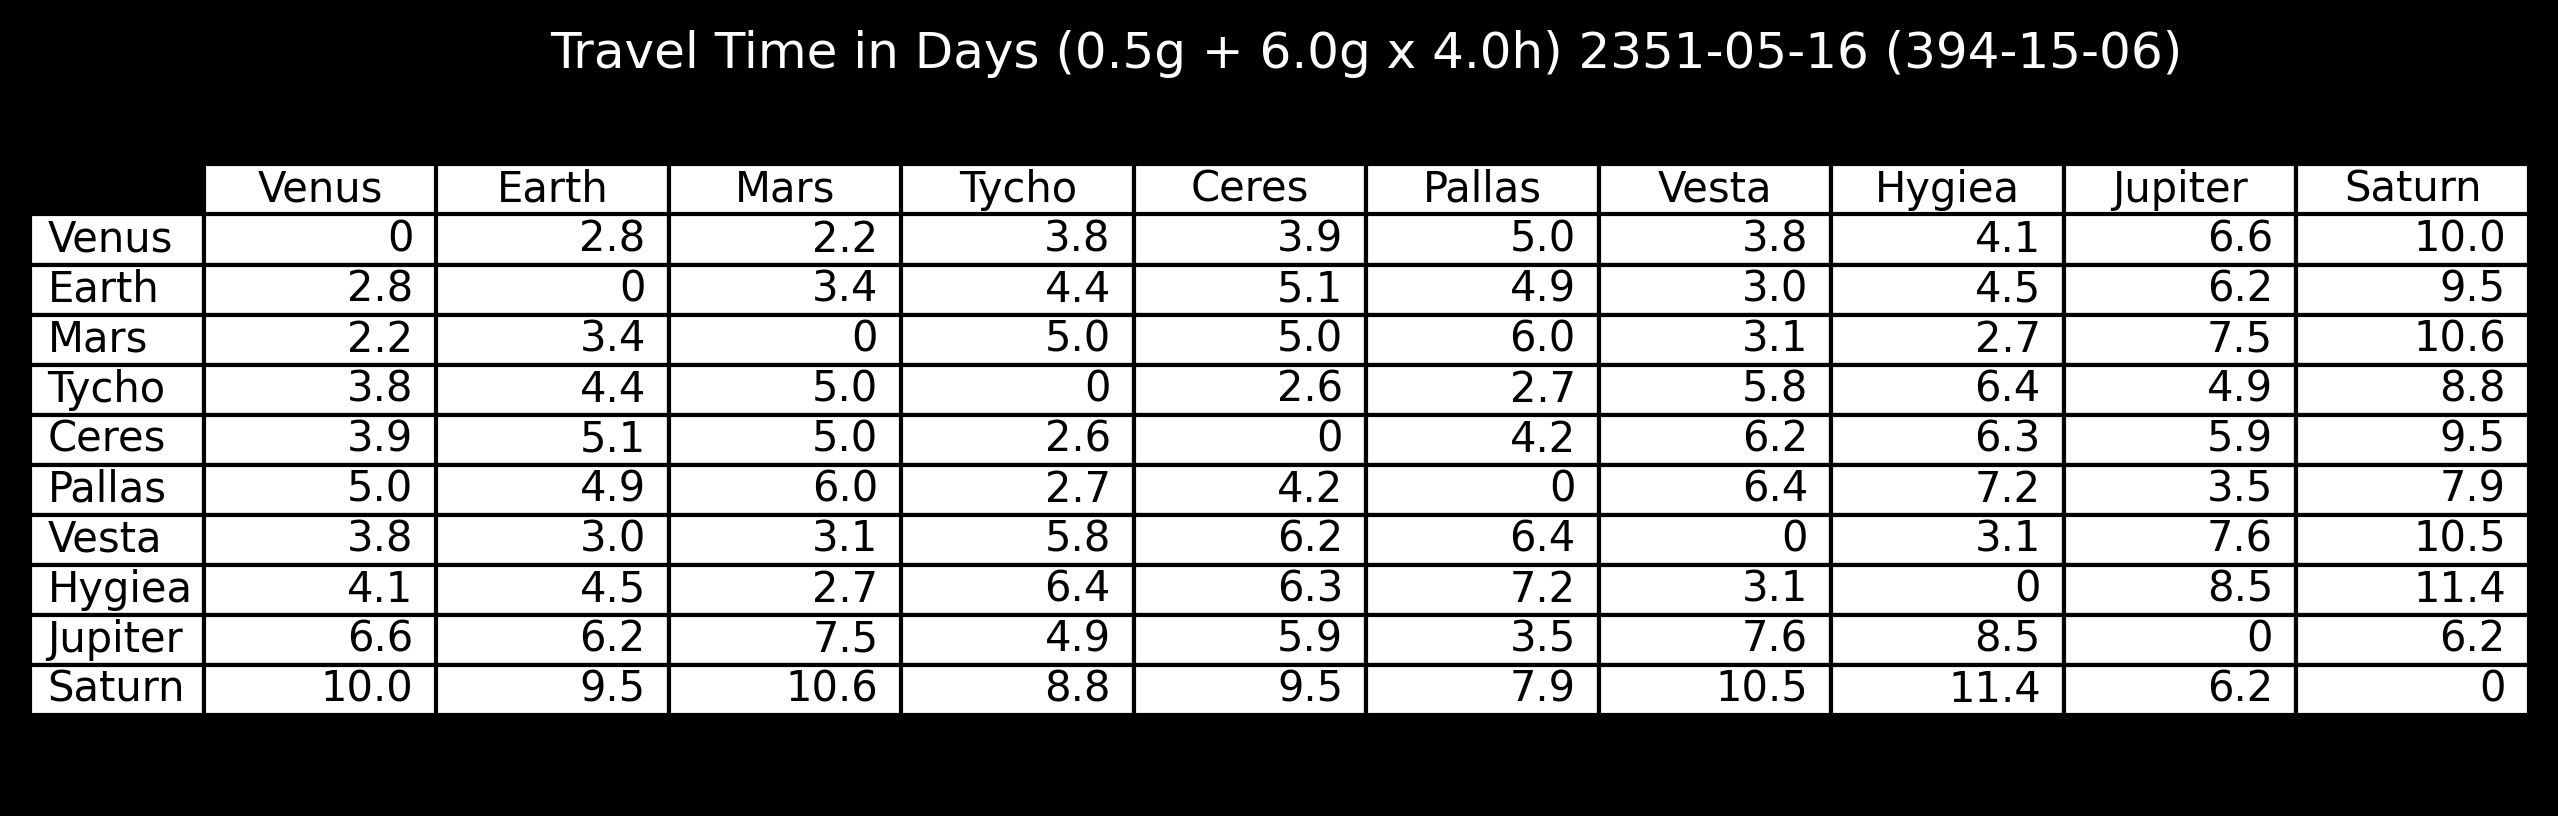
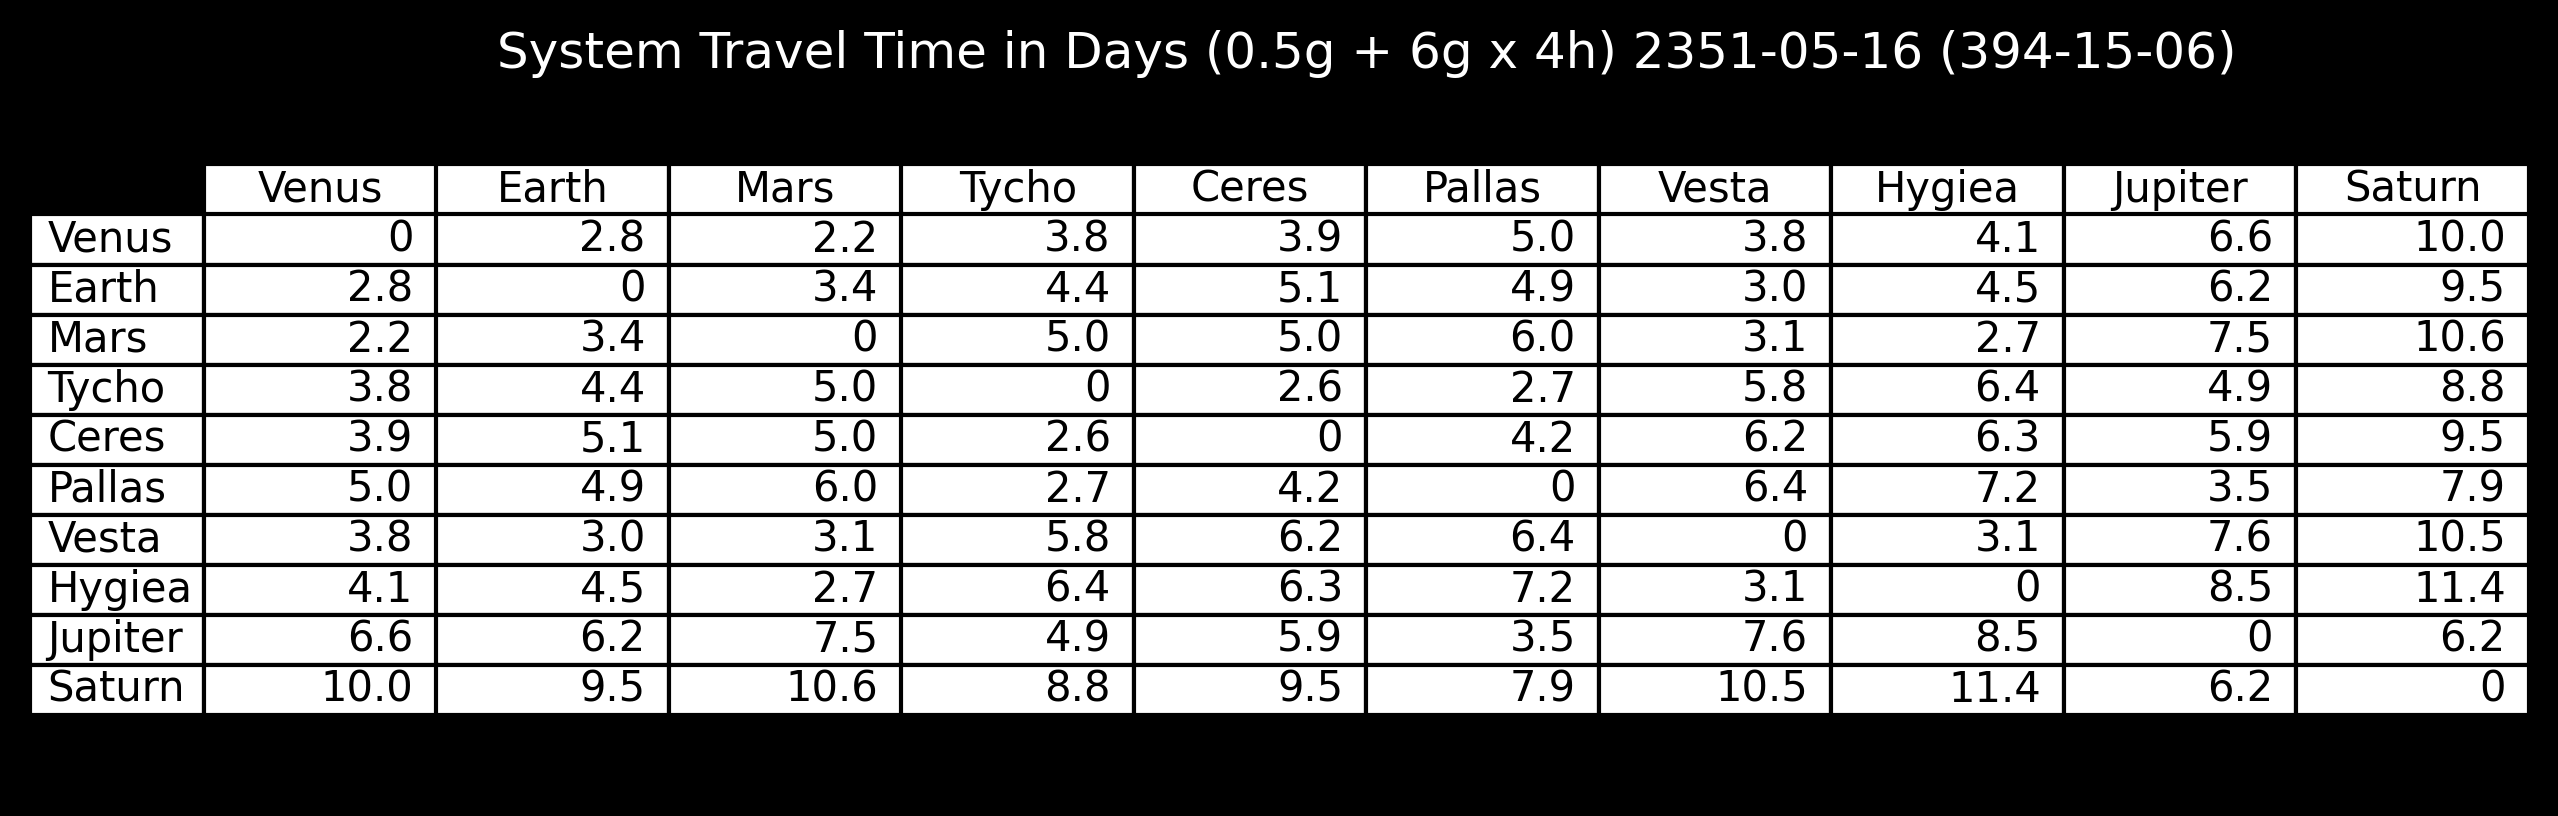
Improved travel time and communication delay tables.

Changed region(s): [[0.1853, 0.0306, 0.8647, 0.0919]]

diff --git a/kuxaku.py b/kuxaku.py
@@ -614,7 +614,7 @@ calculatedistances(cronianplaces, cronianpositions, croniandistances)
 #
 #	communication delay
 #
-def commdelay(name, places, distances, unit):
+def commdelay(name, places, distances, unit, system):
 	print('Writing:', outputdir + name + '.png')
 
 	plot.figure(0)
@@ -636,20 +636,20 @@ def commdelay(name, places, distances, unit):
 	axis.axis('off')
 	axis.axis('tight')
 	axis.table(cellText = celltext, rowLabels = places, colLabels = places, loc = 'center')
-	axis.set_title('Communication Delay in ' + unit + ' ' + titledate(), color = foreground)
+	axis.set_title(system + ' Communication Delay in ' + unit + ' ' + titledate(), color = foreground)
 	#axis.patch.set_facecolor(background)
 
 	plot.savefig(outputdir + name + '.png', dpi = 300, facecolor = background, bbox_inches = 'tight')
 
-commdelay('systemdelay', systemplaces, systemdistances, 'Minutes')
-commdelay('joviandelay', jovianplaces, joviandistances, 'Seconds')
-#commdelay('croniandelay', cronianplaces, croniandistances, 'Seconds')
+commdelay('systemdelay', systemplaces, systemdistances, 'Minutes', 'System')
+commdelay('joviandelay', jovianplaces, joviandistances, 'Seconds', 'Jovian')
+#commdelay('croniandelay', cronianplaces, croniandistances, 'Seconds', 'Cronian')
 
 #
 #	travel time
 #
-def traveltime(name, places, distances, unit, cruiseg, juiceg = 0, juicet = 0):
-	title = 'Travel Time in ' + unit + ' (' + str(cruiseg) + 'g'
+def traveltime(name, places, distances, unit, system, cruiseg, juiceg = 0, juicet = 0):
+	title = system + ' Travel Time in ' + unit + ' (' + str(cruiseg) + 'g'
 	filename = outputdir + name + '{:02.0f}'.format(cruiseg * 10)
 	if juiceg and juicet:
 		title += ' + ' + str(juiceg) + 'g x ' + str(juicet) + 'h'
@@ -677,6 +677,8 @@ def traveltime(name, places, distances, unit, cruiseg, juiceg = 0, juicet = 0):
 					value = 2 * math.sqrt((distances[row][col]) * acc / juiceg) / 3600
 				if unit == 'Days':
 					cellrow.append('{0:.1f}'.format(value / 24))
+				elif unit == 'Hours.':
+					cellrow.append('{0:.1f}'.format(value))
 				else:
 					cellrow.append('{0:.0f}'.format(value))
 			elif col == row:	# diagonal
@@ -692,17 +694,17 @@ def traveltime(name, places, distances, unit, cruiseg, juiceg = 0, juicet = 0):
 	axis.set_title(title, color = foreground)
 	plot.savefig(filename, dpi = 300, facecolor = background, bbox_inches = 'tight')
 
-traveltime('systemtravel', systemplaces, systemdistances, 'Days', 0.3)
-traveltime('systemtravel', systemplaces, systemdistances, 'Days', 0.5)
-traveltime('systemtravel', systemplaces, systemdistances, 'Days', 1.0)
-traveltime('systemtravel', systemplaces, systemdistances, 'Days', 0.5, 6, 4)
+traveltime('systemtravel', systemplaces, systemdistances, 'Days', 'System', 0.3)
+traveltime('systemtravel', systemplaces, systemdistances, 'Days', 'System', 0.5)
+traveltime('systemtravel', systemplaces, systemdistances, 'Days', 'System', 1.0)
+traveltime('systemtravel', systemplaces, systemdistances, 'Days', 'System', 0.5, 6, 4)
 if arguments.juiceg and arguments.juicet:
-	traveltime('systemtravel', systemplaces, systemdistances, 'Days', 0.5, arguments.juiceg, arguments.juicet)
+	traveltime('systemtravel', systemplaces, systemdistances, 'Days', 'System', 0.5, arguments.juiceg, arguments.juicet)
 
-traveltime('joviantravel', jovianplaces, joviandistances, 'Hours', 0.3)
-traveltime('joviantravel', jovianplaces, joviandistances, 'Hours', 0.5)
-traveltime('joviantravel', jovianplaces, joviandistances, 'Hours', 1.0)
+traveltime('joviantravel', jovianplaces, joviandistances, 'Hours', 'Jovian', 0.3)
+traveltime('joviantravel', jovianplaces, joviandistances, 'Hours', 'Jovian', 0.5)
+traveltime('joviantravel', jovianplaces, joviandistances, 'Hours', 'Jovian', 1.0)
 
-traveltime('croniantravel', cronianplaces, croniandistances, 'Hours', 0.3)
-traveltime('croniantravel', cronianplaces, croniandistances, 'Hours', 0.5)
-#traveltime('croniantravel', cronianplaces, croniandistances, 'Hours', 1.0)
+traveltime('croniantravel', cronianplaces, croniandistances, 'Hours.', 'Cronian', 0.3)
+traveltime('croniantravel', cronianplaces, croniandistances, 'Hours.', 'Cronian', 0.5)
+#traveltime('croniantravel', cronianplaces, croniandistances, 'Hours.', 'Cronian', 1.0)

diff --git a/CHANGELOG.md b/CHANGELOG.md
@@ -31,3 +31,7 @@ Added Jovian outer moon orbits to separate jovian2.png map and calculated commun
 Added Cronian system maps and travel time tables.
 
 Improved label positioning with orbit dots and retrograde orbits.
+
+## 2020-12-10
+
+Improved travel time and communication delay tables.
